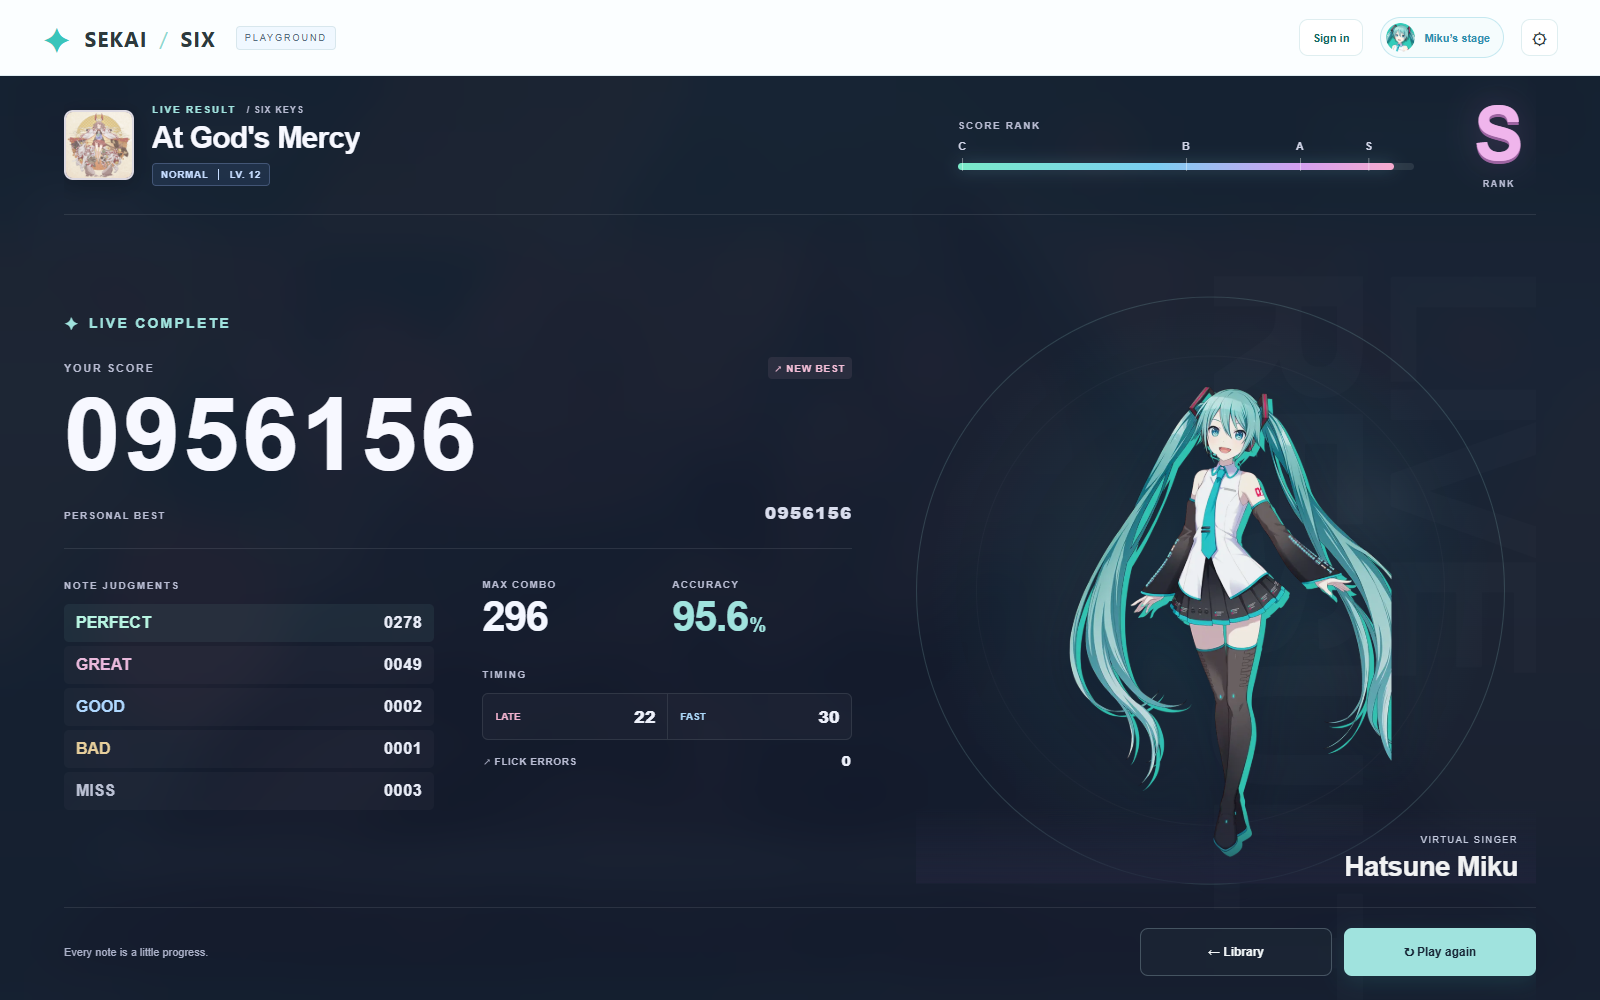
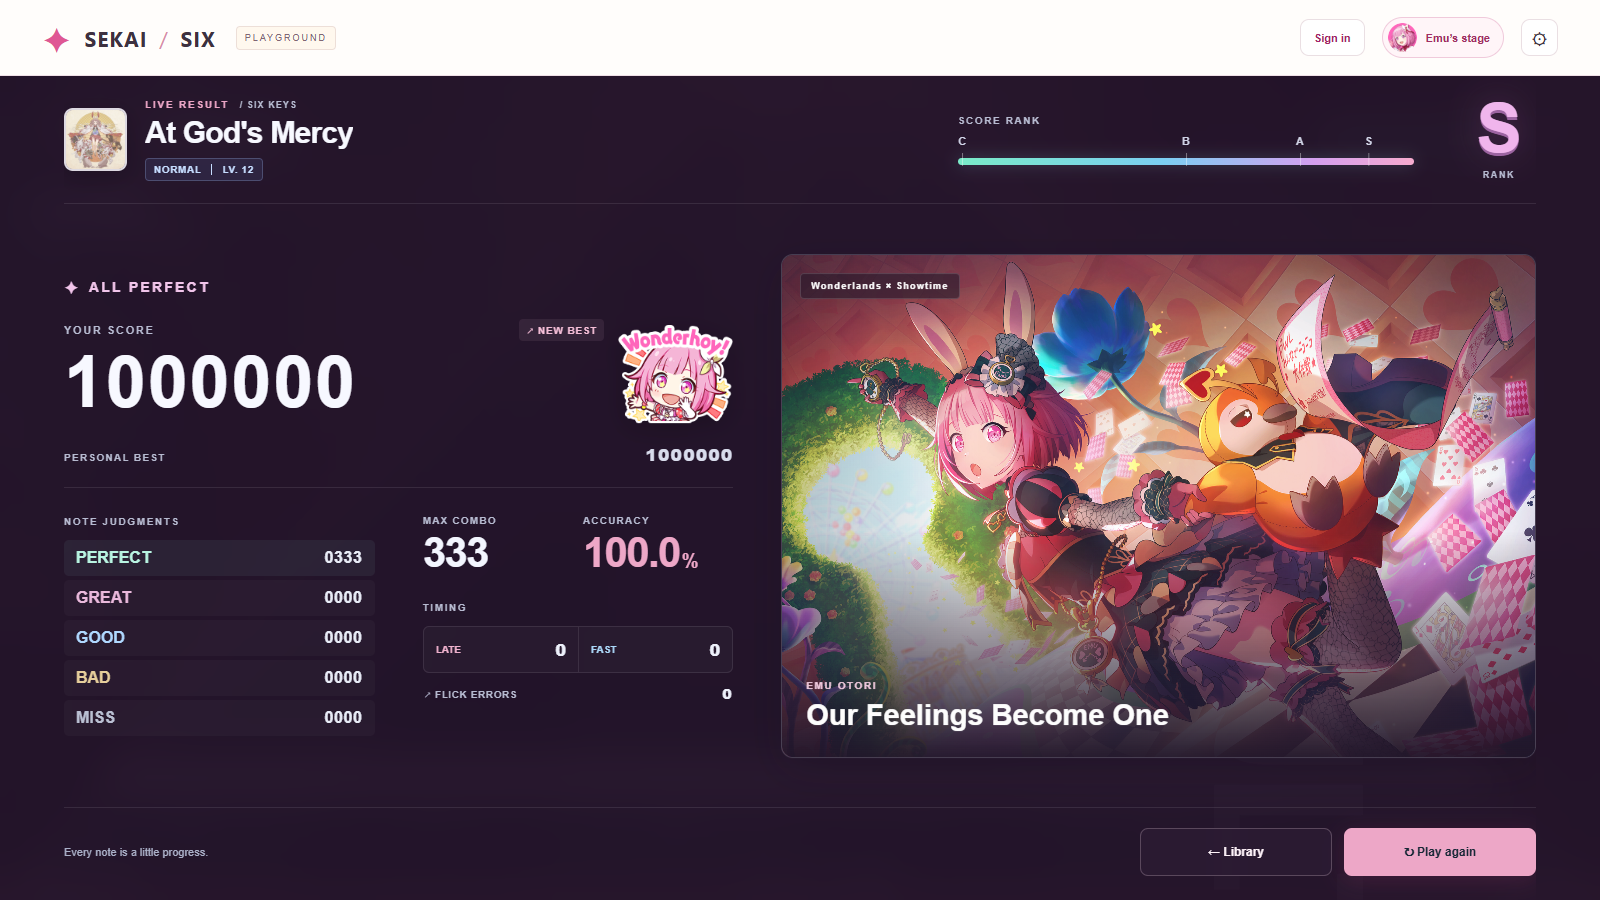
Add official result illustrations and reaction stamps for every character theme

diff --git a/app.js b/app.js
@@ -225,15 +225,17 @@ function finishGame(failed=false) {
   const previousBest=Number(records[recordKey])||0,isNewBest=!failed&&score>previousBest;
   if(isNewBest){records[recordKey]=score;records[state.song.id]=Math.max(Number(records[state.song.id])||0,score);write('six-records',records);}
   const summary=resultSummary({score,counts:state.counts,totalNotes:state.notes.length,maxCombo:state.maxCombo,failed,timing:state.timing});
-  const theme=getTheme(settings.theme),art=theme.standing?`<img class="results-character" src="${safe(theme.standing)}" alt="" aria-hidden="true">`:'';
+  const theme=getTheme(settings.theme),resultArt=theme.resultArt,celebrate=!failed&&(isNewBest||summary.badge==='ALL PERFECT'||summary.badge==='FULL COMBO');
+  const art=resultArt?`<img class="results-card-art" src="${safe(resultArt.image)}" alt="${safe(resultArt.title)} — ${safe(theme.name)}" style="object-position:${safe(resultArt.position)}"><div class="results-art-unit">${safe(theme.unit)}</div><div class="results-card-caption"><span>${safe(theme.name)}</span><strong>${safe(resultArt.title)}</strong></div>`:'';
+  const reaction=celebrate&&resultArt?`<img class="results-reaction" src="${safe(resultArt.sticker)}" alt="${safe(theme.short)}: ${safe(resultArt.reaction)}">`:'';
   const songCover=cover(state.song)?`<img src="${safe(cover(state.song))}" alt="" aria-hidden="true">`:'<span aria-hidden="true">✦</span>';
   const diff=state.custom?'CUSTOM':state.difficulty.toUpperCase(),level=state.custom?'MY CHART':{easy:'LV. 6',normal:'LV. 12',hard:'LV. 19'}[state.difficulty];
   const markers=RANK_MARKS.map(mark=>`<span class="results-rank-mark" style="--mark:${mark.score/1000000*100}%">${mark.label}</span>`).join('');
   const countRow=(label,value)=>`<div class="results-judgment-row results-judgment-${label.toLowerCase()}"><dt>${label}</dt><dd>${String(value).padStart(4,'0')}</dd></div>`;
   $('#gameOverlay').classList.add('is-result');
-  $('#gameOverlay').innerHTML=`<section class="results-screen" data-art="${Boolean(theme.standing)}" aria-labelledby="resultsTitle">
+  $('#gameOverlay').innerHTML=`<section class="results-screen" data-art="${Boolean(resultArt)}" aria-labelledby="resultsTitle">
     <header class="results-header"><div class="results-song"><div class="results-cover">${songCover}</div><div class="results-song-copy"><p class="results-kicker" id="resultsTitle">LIVE RESULT <span> / SIX KEYS</span></p><h2>${safe(state.song.title)}</h2><span class="results-difficulty" data-difficulty="${state.custom?'custom':state.difficulty}">${diff} <small>${level}</small></span></div></div><div class="results-rank"><div class="results-rank-caption">SCORE RANK</div><div class="results-rank-rail" role="img" aria-label="Score rank ${summary.rank} on this demo's one million point scale"><div class="results-rank-track"><span class="results-rank-fill" style="width:${summary.progress}%"></span>${markers}</div></div></div><div class="results-rank-letter" aria-hidden="true">${summary.rank}<small>RANK</small></div></header>
-    <div class="results-body"><div class="results-main"><div class="results-clear-badge" data-clear="${failed?'failed':summary.badge==='ALL PERFECT'?'perfect':summary.badge==='FULL COMBO'?'full':'complete'}"><span aria-hidden="true">${failed?'◇':'✦'}</span> ${summary.badge}</div><div class="results-score-card"><div class="results-score-label">YOUR SCORE ${isNewBest?'<span class="results-new-best">↗ NEW BEST</span>':''}</div><div class="results-score">${String(score).padStart(7,'0')}</div><div class="results-best"><span>PERSONAL BEST</span><strong>${String(Math.max(previousBest,failed?0:score)).padStart(7,'0')}</strong></div></div><div class="results-breakdown"><div class="results-judgments"><h3 class="results-section-title">NOTE JUDGMENTS</h3><dl>${countRow('PERFECT',state.counts.PERFECT)}${countRow('GREAT',state.counts.GREAT)}${countRow('GOOD',state.counts.GOOD)}${countRow('BAD',state.counts.BAD)}${countRow('MISS',state.counts.MISS)}</dl></div><div class="results-performance"><div class="results-metrics"><div class="results-combo"><span>MAX COMBO</span><strong>${state.maxCombo}</strong></div><div class="results-accuracy"><span>ACCURACY</span><strong>${summary.accuracy.toFixed(1)}<small>%</small></strong></div></div><h3 class="results-section-title">TIMING</h3><div class="results-timing"><div><span>LATE</span><b>${summary.late}</b></div><div><span>FAST</span><b>${summary.fast}</b></div></div><div class="results-flick" title="Flicks judged in the wrong direction"><span>↗ FLICK ERRORS</span><b>${summary.flick}</b></div></div></div></div><div class="results-art" aria-hidden="true"><div class="results-art-orbit"></div>${art}${theme.standing?`<div class="results-character-caption"><span>${safe(theme.unit)}</span><strong>${safe(theme.name)}</strong></div>`:''}</div></div>
+    <div class="results-body"><div class="results-main"><div class="results-clear-badge" data-clear="${failed?'failed':summary.badge==='ALL PERFECT'?'perfect':summary.badge==='FULL COMBO'?'full':'complete'}"><span aria-hidden="true">${failed?'◇':'✦'}</span> ${summary.badge}</div><div class="results-score-card" data-reaction="${Boolean(reaction)}">${reaction}<div class="results-score-label">YOUR SCORE ${isNewBest?'<span class="results-new-best">↗ NEW BEST</span>':''}</div><div class="results-score">${String(score).padStart(7,'0')}</div><div class="results-best"><span>PERSONAL BEST</span><strong>${String(Math.max(previousBest,failed?0:score)).padStart(7,'0')}</strong></div></div><div class="results-breakdown"><div class="results-judgments"><h3 class="results-section-title">NOTE JUDGMENTS</h3><dl>${countRow('PERFECT',state.counts.PERFECT)}${countRow('GREAT',state.counts.GREAT)}${countRow('GOOD',state.counts.GOOD)}${countRow('BAD',state.counts.BAD)}${countRow('MISS',state.counts.MISS)}</dl></div><div class="results-performance"><div class="results-metrics"><div class="results-combo"><span>MAX COMBO</span><strong>${state.maxCombo}</strong></div><div class="results-accuracy"><span>ACCURACY</span><strong>${summary.accuracy.toFixed(1)}<small>%</small></strong></div></div><h3 class="results-section-title">TIMING</h3><div class="results-timing"><div><span>LATE</span><b>${summary.late}</b></div><div><span>FAST</span><b>${summary.fast}</b></div></div><div class="results-flick" title="Flicks judged in the wrong direction"><span>↗ FLICK ERRORS</span><b>${summary.flick}</b></div></div></div></div><div class="results-art">${art}</div></div>
     <footer class="results-actions"><span class="results-footer-note">${failed?'A fresh start. Another chance.':'Every note is a little progress.'}</span><button id="resultBack" class="glass-button">${state.fromEditor?'← Chart Studio':'← Library'}</button><button id="retry" class="primary">↻ Play again</button></footer></section>`;
   $('#gameOverlay').classList.remove('hidden');$('#retry').onclick=()=>startGame(state.custom?state.chart:null,state.fromEditor);$('#resultBack').onclick=leaveGame;
 }

diff --git a/results.css b/results.css
@@ -1,4 +1,4 @@
-/* A fluid result stage: the score leads, the selected character shares the stage. */
+/* A fluid result stage with official card artwork and achievement reactions. */
 .game-overlay.is-result {
   --result-text: #f7f8ff;
   --result-muted: #b7bbd1;
@@ -212,4 +212,46 @@
   .results-main, .results-rank-letter { animation: results-enter .35s ease-out both; }
   .results-art { animation: results-enter .5s ease-out both; }
   @keyframes results-enter { from { opacity: 0; translate: 0 8px; } to { opacity: var(--result-enter-opacity, 1); translate: 0 0; } }
+}
+
+/* Card illustrations keep their scenery; reactions belong to the score. */
+.results-body { grid-template-columns: minmax(0, .94fr) minmax(0, 1.06fr); gap: clamp(24px, 3vw, 48px); }
+.results-art { align-self: center; height: min(56vh, 640px); min-height: 300px; border: 1px solid #ffffff20; border-radius: 12px; isolation: isolate; background: #30263b; box-shadow: 0 12px 40px #0b0a1928; }
+.results-art::after { content: ''; position: absolute; inset: 0; pointer-events: none; background: linear-gradient(0deg, #211629f5, transparent 45%), linear-gradient(90deg, #21162940, transparent 25%); }
+.results-card-art { width: 100%; height: 100%; display: block; object-fit: cover; }
+.results-art-unit { position: absolute; left: 18px; top: 18px; z-index: 1; max-width: calc(100% - 36px); padding: 7px 10px; border: 1px solid #ffffff25; border-radius: 4px; background: #24192b9c; color: #fff; font-size: 9px; letter-spacing: .14em; font-weight: 700; }
+.results-card-caption { position: absolute; left: 24px; right: 24px; bottom: 24px; z-index: 1; text-align: left; }
+.results-card-caption span { display: block; color: #f1cbdf; font-size: 10px; font-weight: 700; letter-spacing: .16em; text-transform: uppercase; }
+.results-card-caption strong { display: block; margin-top: 8px; color: #fff; font: 600 clamp(19px, 2vw, 29px)/1.15 'Space Grotesk', sans-serif; text-wrap: balance; }
+.results-score-card[data-reaction="true"] { display: grid; grid-template-columns: minmax(0, 1fr) clamp(76px, 7.5vw, 115px); column-gap: 14px; align-items: center; }
+.results-score-card[data-reaction="true"] .results-score-label { grid-column: 1; grid-row: 1; flex-wrap: wrap; gap: 6px; }
+.results-score-card[data-reaction="true"] .results-score { grid-column: 1; grid-row: 2; font-size: clamp(37px, min(5.2vw, 8vh), 88px); }
+.results-score-card[data-reaction="true"] .results-best { grid-column: 1 / -1; margin-top: 10px; }
+.results-reaction { width: 100%; max-height: 115px; object-fit: contain; grid-column: 2; grid-row: 1 / 3; filter: drop-shadow(0 5px 12px #0003); }
+@media (max-width: 1000px) and (min-width: 761px) {
+  .results-body { grid-template-columns: minmax(0, 1.2fr) minmax(0, 1fr); gap: 24px; }
+  .results-art { height: min(54vh, 470px); }
+  .results-card-caption { left: 16px; right: 16px; bottom: 18px; }
+}
+@media (max-width: 760px) {
+  .results-body { display: flex; flex-direction: column; gap: 0; }
+  .results-art { --result-enter-opacity: 1; order: -1; position: relative; inset: auto; width: 100%; height: 120px; min-height: 120px; opacity: 1; margin-top: 14px; border-radius: 9px; }
+  .results-card-caption { left: 14px; right: 14px; bottom: 13px; }
+  .results-card-caption span { font-size: 8px; }
+  .results-card-caption strong { font-size: 19px; margin-top: 4px; }
+  .results-art-unit { top: 10px; left: 12px; font-size: 7px; padding: 5px 7px; }
+  .results-main { width: 100%; padding: 16px 0; }
+  .results-clear-badge { margin-bottom: 12px; }
+  .results-score-card[data-reaction="true"] { grid-template-columns: minmax(0, 1fr) 70px; gap: 0 9px; }
+  .results-score-card[data-reaction="true"] .results-score { font-size: clamp(34px, 10vw, 64px); }
+  .results-reaction { max-height: 80px; }
+}
+@media (max-height: 680px) and (min-width: 761px) {
+  .results-art { min-height: 210px; height: 54vh; }
+  .results-score-card[data-reaction="true"] .results-score { font-size: clamp(32px, 6.8vh, 48px); }
+  .results-reaction { max-height: 76px; }
+}
+@media (prefers-reduced-motion: no-preference) {
+  .results-reaction { animation: result-stamp-pop .4s ease-out both; }
+  @keyframes result-stamp-pop { from { opacity: 0; transform: scale(.8) rotate(-5deg); } to { opacity: 1; transform: scale(1) rotate(0); } }
 }

diff --git a/result-art.js b/result-art.js
@@ -1,0 +1,15 @@
+// Official game illustrations and English stamps; provenance is in assets/results/SOURCES.md.
+export const RESULT_ART = {
+  emu: {card:'res014_no010',title:'Our Feelings Become One',stamp:'stamp0168',reaction:'Wonderhoy!',position:'37% center'},
+  ichika: {card:'res001_no006',title:'Smiling Once More',stamp:'stamp0051',reaction:'Hehe',position:'50% center'},
+  saki: {card:'res002_no009',title:'The Best Doll Festival!',stamp:'stamp0060',reaction:'Yay!',position:'50% center'},
+  minori: {card:'res005_no007',title:'For "Your" Sake',stamp:'stamp0090',reaction:'Hehehe',position:'50% center'},
+  kohane: {card:'res009_no005',title:'Once More, Together',stamp:'stamp0394',reaction:'We did it!',position:'50% center'},
+  tsukasa: {card:'res013_no006',title:"I'm The Lead!",stamp:'stamp0152',reaction:'Ha ha ha!',position:'50% center'},
+  kanade: {card:'res017_no006',title:'From Feeling To Melody',stamp:'stamp0193',reaction:"That's nice...",position:'50% center'},
+  miku: {card:'res021_no008',title:'The Big Debut',stamp:'stamp0234',reaction:'Hehehe',position:'50% center'},
+};
+for (const [id, art] of Object.entries(RESULT_ART)) {
+  art.image=`assets/results/${id}/card.png`;
+  art.sticker=`assets/results/${id}/stamp.png`;
+}

diff --git a/themes.js b/themes.js
@@ -1,3 +1,4 @@
+import {RESULT_ART} from './result-art.js';
 // One registry drives theme selection, artwork, captions, and saved preferences.
 export const THEMES = {
   emu: {name:'Emu Otori',short:'Emu',unit:'Wonderlands × Showtime',title:['A little wonder.','A lot of rhythm.'],tag:'✦ WONDERHOY!',avatar:'assets/emu/emu-avatar.webp',standing:'assets/emu/emu-standing.webp',card:'assets/emu/emu-card.webp'},
@@ -11,6 +12,7 @@ export const THEMES = {
   classic: {name:'Classic',short:'Classic'},
 };
 for(const [id,theme] of Object.entries(THEMES)) {
+  theme.resultArt=RESULT_ART[id];
   if(id==='classic'||id==='emu')continue;
   for(const asset of ['avatar','standing','card'])theme[asset]=`assets/characters/${id}/${asset}.webp`;
 }

diff --git a/README.md b/README.md
@@ -10,6 +10,7 @@ A personal, browser-based rhythm game inspired by Project SEKAI: a colorful song
 
 ## What's new
 
+- **Character result cards:** all eight character themes show their own official trained card illustration, plus a matching reaction stamp for a New Best, Full Combo, or All Perfect. Phones use a compact illustrated banner. [Artwork sources](assets/results/SOURCES.md).
 - **Miku's new stage:** a mint-and-teal illustrated background supplied by the project owner, with a portrait crop for smaller screens.
 - **A deeper approaching lane:** a narrower horizon, wider judgment line, accelerating note movement, glowing hold and slide trails, beat lighting, and theme-colored hit effects.
 - **A redesigned results screen:** clearer score/rank hierarchy, grouped judgments and timing stats, character artwork, and layouts for desktop, ultrawide, mobile, and short landscape screens.
@@ -46,7 +47,11 @@ Browse the hosted songs, pick a difficulty, favorite a track, or open Chart Stud
 
 | Live results | Pause and practice |
 | --- | --- |
-| ![Redesigned results with rank, score, judgments, timing, and Miku artwork](docs/screenshots/results-desktop.png) | ![Pause menu with resume count-in, restart, controls, and return actions](docs/screenshots/pause-desktop.png) |
+| ![Redesigned results with rank, score, judgments, timing, Emu card art and a reaction stamp](docs/screenshots/results-desktop.png) | ![Pause menu with resume count-in, restart, controls, and return actions](docs/screenshots/pause-desktop.png) |
+
+Each character has a matching illustration and celebration stamp:
+
+![Results for Emu, Ichika, Saki, Minori, Kohane, Tsukasa, Kanade and Miku](docs/screenshots/results-characters.png)
 
 ### Build a chart
 

diff --git a/assets/results/SOURCES.md b/assets/results/SOURCES.md
@@ -1,0 +1,25 @@
+# Results illustrations and reaction stamps
+
+These are unchanged official Project SEKAI game assets, retrieved on 2026-09-24
+from the community-operated Sekai Viewer asset mirror (storage.sekai.best).
+The mirror is not an official SEGA website. No artwork was generated or redrawn.
+
+Card names, character identities, and English stamp text were matched against
+https://github.com/Sekai-World/sekai-master-db-en-diff (cards.json and stamps.json).
+Illustrations use the trained card artwork. The exact source URL and SHA-256 of
+every file are recorded in [manifest.json](manifest.json).
+
+| Character | Card | Reaction |
+| --- | --- | --- |
+| Emu Otori | Our Feelings Become One | Wonderhoy! |
+| Ichika Hoshino | Smiling Once More | Hehe |
+| Saki Tenma | The Best Doll Festival! | Yay! |
+| Minori Hanasato | For "Your" Sake | Hehehe |
+| Kohane Azusawa | Once More, Together | We did it! |
+| Tsukasa Tenma | I'm The Lead! | Ha ha ha! |
+| Kanade Yoisaki | From Feeling To Melody | That's nice... |
+| Hatsune Miku | The Big Debut | Hehehe |
+
+© SEGA / Colorful Palette Inc. / Crypton Future Media, INC.
+Display cropping and gradients are applied with CSS. Reactions appear for a new
+personal best, Full Combo, or All Perfect, and are omitted on failed lives.
